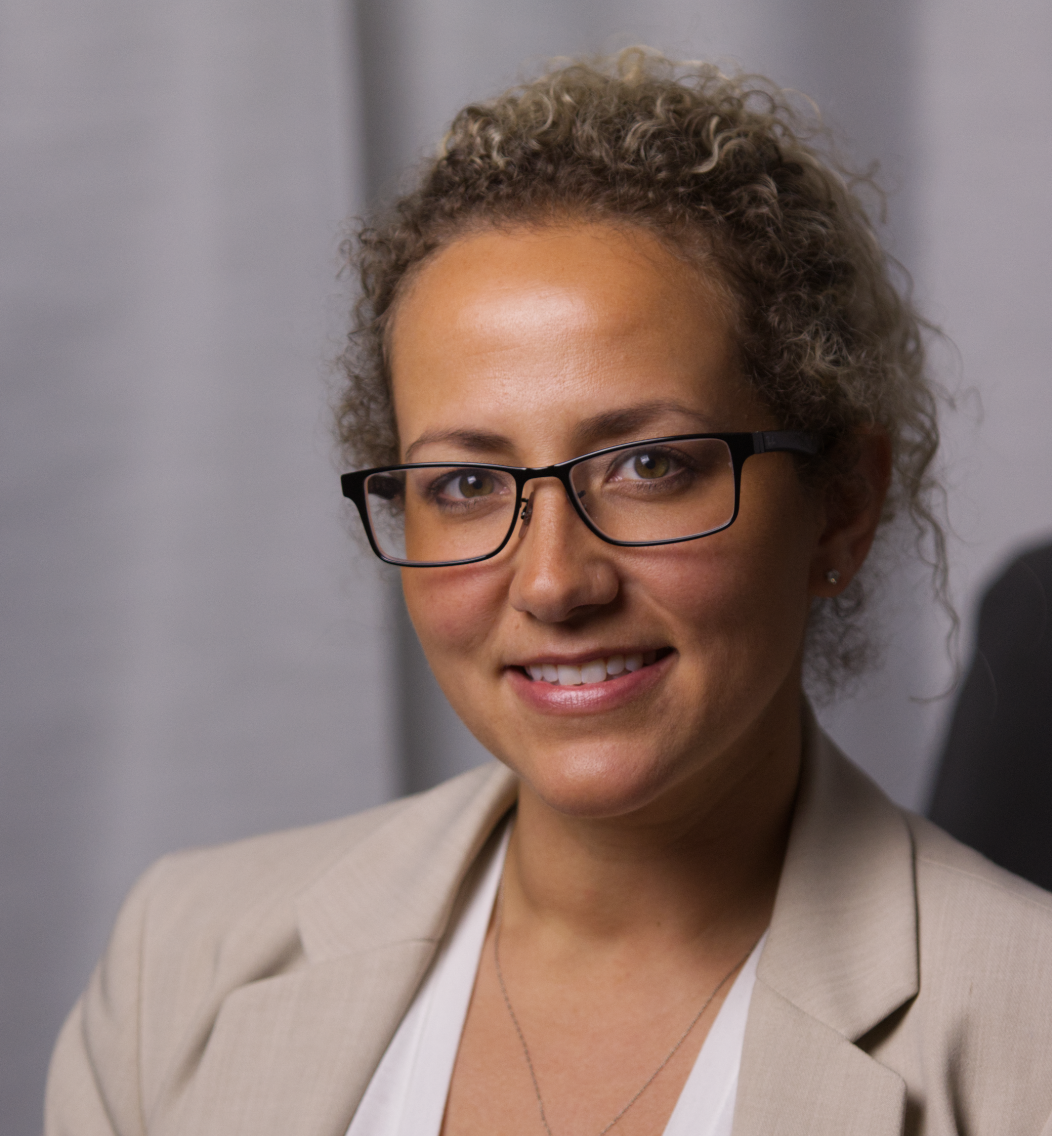
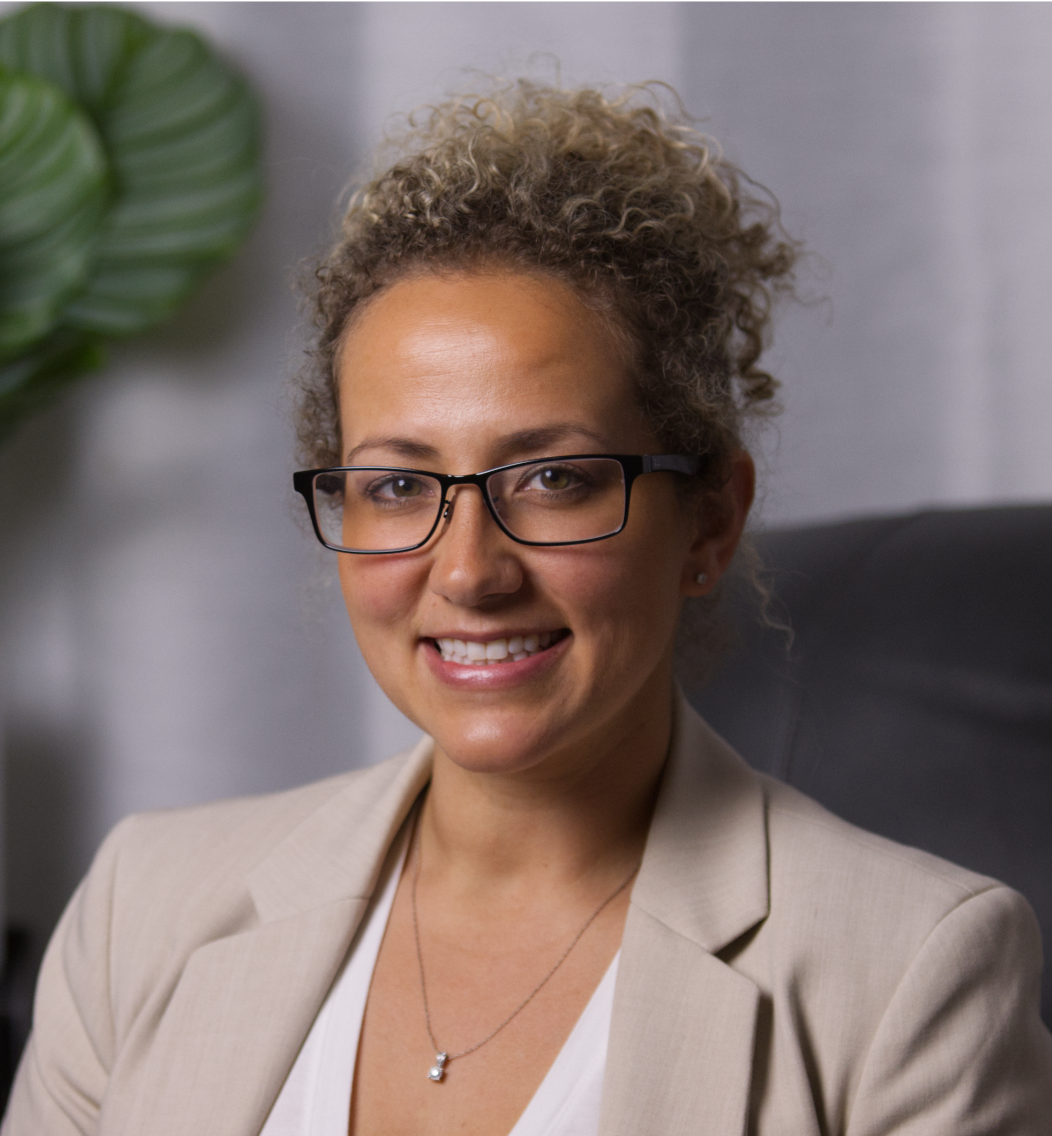
feat: updated lindsay img and rb old vs new

diff --git a/public/index.html b/public/index.html
@@ -61,6 +61,11 @@
       media="screen"
       href="assets/vendor/swiper/swiper-bundle.min.css"
     />
+    <link
+      rel="stylesheet"
+      media="screen"
+      href="assets/vendor/img-comparison-slider/dist/styles.css"
+    />
     <!-- <link
       rel="stylesheet"
       media="screen"
@@ -1150,8 +1155,8 @@
                   >
                   <h5 class="card-title">Diaper Buddy</h5>
                   <p class="card-text fs-sm">
-                    Some quick example text to build on the card title and make
-                    up the bulk of the card's content.
+                    Mobile web application that tracks baby diaper usage. Emails
+                    notifications when inventory is low.
                   </p>
                   <button
                     type="button"
@@ -1427,39 +1432,74 @@
                     <div class="col-lg-8">
                       <!-- Image -->
                       <div class="gallery mb-4 pb-2">
-                        <div class="rounded-3">
+                        <img-comparison-slider>
+                          <figure slot="first" class="position-relative">
+                            <img
+                              src="assets/img/portfolio/single/rb-original1118x630.png"
+                              alt="Image before"
+                            />
+                            <figcaption
+                              class="badge position-absolute top-50 start-0 translate-middle-y bg-white rounded text-nav fs-sm fw-semibold lh-1 px-3 py-2 ms-3 ms-sm-4"
+                            >
+                              Before
+                            </figcaption>
+                          </figure>
+                          <figure slot="second" class="position-relative">
+                            <img
+                              src="assets/img/portfolio/single/rb1118x630.png"
+                              alt="Image after"
+                            />
+                            <figcaption
+                              class="badge position-absolute top-50 end-0 translate-middle-y bg-white rounded text-nav fs-sm fw-semibold lh-1 px-3 py-2 me-3 me-sm-4"
+                            >
+                              After
+                            </figcaption>
+                          </figure>
+                          <div slot="handle" style="position: relative">
+                            <svg
+                              class="text-primary shadow-primary rounded-circle"
+                              width="36"
+                              height="36"
+                              xmlns="http://www.w3.org/2000/svg"
+                              x="0px"
+                              y="0px"
+                              viewBox="0 0 36 36"
+                            >
+                              <g>
+                                <circle
+                                  fill="currentColor"
+                                  cx="18"
+                                  cy="18"
+                                  r="18"
+                                />
+                              </g>
+                              <path
+                                fill="#fff"
+                                d="M22.2,17.2h-8.3v-3.3L9.7,18l4.2,4.2v-3.3h8.3v3.3l4.2-4.2l-4.2-4.2V17.2z"
+                              />
+                            </svg>
+                          </div>
+                        </img-comparison-slider>
+                        <!-- <div class="rounded-3">
                           <img
                             class="rounded-3"
                             src="assets/img/portfolio/single/rb1118x630.png"
                             alt="Gallery thumbnail"
                           />
-                        </div>
+                        </div> -->
                       </div>
 
                       <p class="mb-4 pb-2">
-                        This application is a mobile friendly website that
-                        tracks fitness personal records. A user can create an
-                        account and log into the application to record fitness
-                        goals. myPRs has three categories of movements: Lifts,
-                        Cardio and Skills. The application is already loaded
-                        with predefined movements in each category and the user
-                        can create new movements to add to their list. Within
-                        each specific movement, the user can add new 1 rep max
-                        logs, edit the log or delete it. I was inspired to
-                        create this project because I needed a way to track my
-                        own fitness personal records with a specific, easy to
-                        use application. There are many other beautiful fitness
-                        application on the market but they tend to get very busy
-                        with too many options and I just wanted a simple quick
-                        way to look at my person fitness records.
+                        Retail Backbone is an established software company that
+                        needed a new website with modern code, a fresh look and
+                        new features. The features we added were a fully
+                        responsive layout, team section with avatars, job
+                        postings, product videos and much more.
                       </p>
 
                       <p class="mb-4 pb-2">
-                        My focus on this project was to build the frontend in
-                        React. Node.js is being used for the backend and MongoDB
-                        for the database. I used Balsamiq to wireframe my design
-                        and lucid charts to map out my data. Postman was used to
-                        test all of my endpoints throughout development.
+                        We worked together to pick a design theme that would
+                        resonate with their clientele and attract new clients.
                       </p>
 
                       <h4 class="h6">
@@ -1638,29 +1678,21 @@
                       </div>
 
                       <p class="mb-4 pb-2">
-                        This application is a mobile friendly website that
-                        tracks fitness personal records. A user can create an
-                        account and log into the application to record fitness
-                        goals. myPRs has three categories of movements: Lifts,
-                        Cardio and Skills. The application is already loaded
-                        with predefined movements in each category and the user
-                        can create new movements to add to their list. Within
-                        each specific movement, the user can add new 1 rep max
-                        logs, edit the log or delete it. I was inspired to
-                        create this project because I needed a way to track my
-                        own fitness personal records with a specific, easy to
-                        use application. There are many other beautiful fitness
-                        application on the market but they tend to get very busy
-                        with too many options and I just wanted a simple quick
-                        way to look at my person fitness records.
+                        Shirley Sei Bella is a family-owned salon that had been
+                        open for years, but they never had a website. We met
+                        with the client and discussed their needs and website
+                        objectives. We walked through the whole process and
+                        picked a design template that would suit their brand.
+                        The client utilized a variety of our add-on services
+                        like domain purchase, domain registration, website
+                        hosting and Google Analytics.
                       </p>
 
                       <p class="mb-4 pb-2">
-                        My focus on this project was to build the frontend in
-                        React. Node.js is being used for the backend and MongoDB
-                        for the database. I used Balsamiq to wireframe my design
-                        and lucid charts to map out my data. Postman was used to
-                        test all of my endpoints throughout development.
+                        This website is fully responsive, so it looks great
+                        across all devises. The client had us pick some stock
+                        photos, but the majority of photos were taken at the
+                        salon for the website.
                       </p>
 
                       <h4 class="h6">
@@ -1840,29 +1872,12 @@
                       </div>
 
                       <p class="mb-4 pb-2">
-                        This application is a mobile friendly website that
-                        tracks fitness personal records. A user can create an
-                        account and log into the application to record fitness
-                        goals. myPRs has three categories of movements: Lifts,
-                        Cardio and Skills. The application is already loaded
-                        with predefined movements in each category and the user
-                        can create new movements to add to their list. Within
-                        each specific movement, the user can add new 1 rep max
-                        logs, edit the log or delete it. I was inspired to
-                        create this project because I needed a way to track my
-                        own fitness personal records with a specific, easy to
-                        use application. There are many other beautiful fitness
-                        application on the market but they tend to get very busy
-                        with too many options and I just wanted a simple quick
-                        way to look at my person fitness records.
-                      </p>
-
-                      <p class="mb-4 pb-2">
-                        My focus on this project was to build the frontend in
-                        React. Node.js is being used for the backend and MongoDB
-                        for the database. I used Balsamiq to wireframe my design
-                        and lucid charts to map out my data. Postman was used to
-                        test all of my endpoints throughout development.
+                        This is a website for a fictitious salon. We were
+                        utilizing one of our many website design templates to
+                        showcase possible website options. This website is fully
+                        responsive so it will look great on all devices. The
+                        navigation menu on this site slides out from the right
+                        and will link to specific sections of the webpage.
                       </p>
 
                       <h4 class="h6">
@@ -1988,7 +2003,11 @@
                                   class="bx bx-right-arrow-alt text-primary me-1"
                                   style="margin-top: 0.25rem"
                                 ></i>
-                                <a href="#" target="_blank">need...</a>
+                                <a
+                                  href="https://unwind-salon.herokuapp.com/"
+                                  target="_blank"
+                                  >https://unwind-salon.herokuapp.com/</a
+                                >
                               </li>
                             </ul>
                           </div>
@@ -2047,29 +2066,15 @@
                       </div>
 
                       <p class="mb-4 pb-2">
-                        This application is a mobile friendly website that
-                        tracks fitness personal records. A user can create an
-                        account and log into the application to record fitness
-                        goals. myPRs has three categories of movements: Lifts,
-                        Cardio and Skills. The application is already loaded
-                        with predefined movements in each category and the user
-                        can create new movements to add to their list. Within
-                        each specific movement, the user can add new 1 rep max
-                        logs, edit the log or delete it. I was inspired to
-                        create this project because I needed a way to track my
-                        own fitness personal records with a specific, easy to
-                        use application. There are many other beautiful fitness
-                        application on the market but they tend to get very busy
-                        with too many options and I just wanted a simple quick
-                        way to look at my person fitness records.
-                      </p>
-
-                      <p class="mb-4 pb-2">
-                        My focus on this project was to build the frontend in
-                        React. Node.js is being used for the backend and MongoDB
-                        for the database. I used Balsamiq to wireframe my design
-                        and lucid charts to map out my data. Postman was used to
-                        test all of my endpoints throughout development.
+                        Diaper Buddy is a website created for mobile devices to
+                        help parents track their diaper inventory. Users can add
+                        multiple children and add and remove diaper inventory by
+                        size. Features we added are graphs, card swiping, and
+                        image uploads. We also connected with an email client
+                        for user sign up and forgot/reset password features. The
+                        application will send an alert email to users when their
+                        diaper inventory is too low as a reminder to purchase
+                        more.
                       </p>
 
                       <h4 class="h6">
@@ -2481,6 +2486,7 @@
     <script src="assets/vendor/jarallax/dist/jarallax.min.js"></script>
     <!-- <script src="assets/vendor/@lottiefiles/lottie-player/dist/lottie-player.js"></script> -->
     <script src="assets/vendor/swiper/swiper-bundle.min.js"></script>
+    <script src="assets/vendor/img-comparison-slider/dist/index.js"></script>
 
     <!-- <script src="assets/vendor/imagesloaded/imagesloaded.pkgd.min.js"></script> -->
     <!-- <script src="assets/vendor/shufflejs/dist/shuffle.min.js"></script> -->
